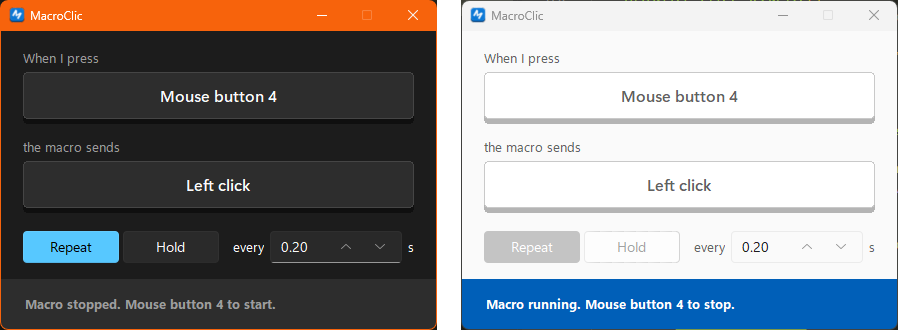
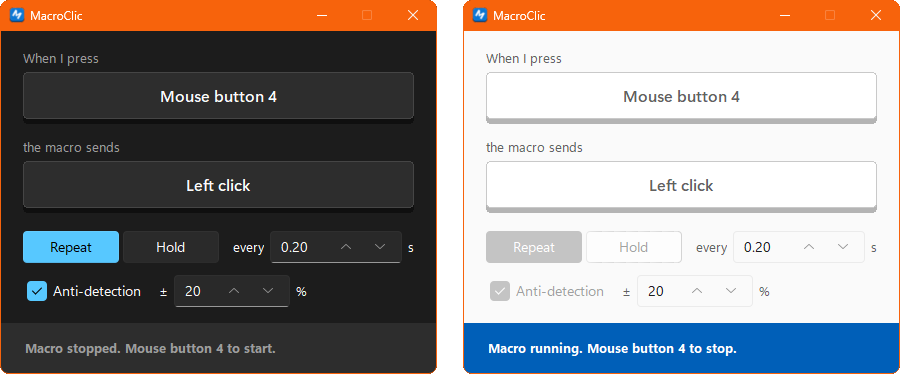
Add Anti-detection: a random spread on the repeat interval
A perfectly regular rhythm is easy for anti-cheat to spot. In Repeat
mode, ticking Anti-detection draws the wait after each press within
±N % (1 to 90, default 50) of the set gap. The spread applies to the
gap after the press, so it never goes below zero at short intervals.

The interval and percent share one parser (parse_number), config
loading and spinbox binding; the window saves on any cfg change.

diff --git a/macroclic.py b/macroclic.py
@@ -7,6 +7,7 @@ import atexit
 import json
 import math
 import os
+import random
 import sys
 import threading
 import time
@@ -22,6 +23,7 @@ import winput
 APP = "MacroClic"
 PRESS_TIME = 0.04          # how long a repeated press stays down (seconds)
 MIN_INTERVAL, MAX_INTERVAL = 0.05, 3600
+MAX_JITTER = 90            # percent; at 100 a wait could shrink to nothing
 CONFIG = Path(os.environ.get("APPDATA", ".")) / APP / "config.json"
 
 MOUSE_NAMES = {"left": "Left click", "right": "Right click",
@@ -93,18 +95,32 @@ def valid(inp, role):
             and inp["id"] == key_id(vk, ext) and isinstance(inp.get("scan"), int))
 
 
-def parse_interval(value):
-    """Interval in seconds clamped to bounds, or None if not a finite number."""
-    try:
-        value = float(value)
-    except (TypeError, ValueError):
+def parse_number(value, low, high):
+    """value clamped to low..high, or None if not a finite number. Typed
+    text may use a decimal comma; True / False aren't numbers here."""
+    if isinstance(value, bool):
         return None
-    return min(MAX_INTERVAL, max(MIN_INTERVAL, value)) if math.isfinite(value) else None
+    try:
+        value = float(str(value).replace(",", "."))
+    except ValueError:
+        return None
+    return min(high, max(low, value)) if math.isfinite(value) else None
+
+
+def parse_interval(value):
+    """Seconds between presses."""
+    return parse_number(value, MIN_INTERVAL, MAX_INTERVAL)
+
+
+def parse_jitter(value):
+    """Whole percent for Anti-detection."""
+    value = parse_number(value, 1, MAX_JITTER)
+    return None if value is None else round(value)
 
 
 # ─── Settings ─────────────────────────────────────────────────────────────────
 cfg = {"trigger": mouse_input("x1"), "action": mouse_input("left"),
-       "interval": 0.2, "hold": False}
+       "interval": 0.2, "hold": False, "random": False, "jitter": 50}
 
 
 def load_config():
@@ -117,11 +133,12 @@ def load_config():
     for k in ("trigger", "action"):
         if valid(saved.get(k), k):
             cfg[k] = renamed(saved[k])
-    interval = saved.get("interval")
-    if not isinstance(interval, bool) and (value := parse_interval(interval)):
-        cfg["interval"] = value
-    if isinstance(saved.get("hold"), bool):
-        cfg["hold"] = saved["hold"]
+    for k, parse in (("interval", parse_interval), ("jitter", parse_jitter)):
+        if (value := parse(saved.get(k))) is not None:
+            cfg[k] = value
+    for k in ("hold", "random"):
+        if isinstance(saved.get(k), bool):
+            cfg[k] = saved[k]
 
 
 def save_config():
@@ -195,6 +212,14 @@ def wait_while_active(seconds):
         time.sleep(0.01)
 
 
+def next_gap():
+    """Wait after a repeated press, drawn within ±jitter % when Anti-detection
+    is on: a perfectly regular rhythm is easy for anti-cheat to spot. The draw
+    spreads the gap, not the whole interval, so it never goes below zero."""
+    spread = cfg["jitter"] / 100 if cfg["random"] else 0
+    return (cfg["interval"] - PRESS_TIME) * random.uniform(1 - spread, 1 + spread)
+
+
 def worker():
     while not stopping:
         if not active:
@@ -207,7 +232,7 @@ def worker():
             wait_while_active(float("inf") if cfg["hold"] else PRESS_TIME)
         finally:
             send(inp, True)  # never leave it stuck down
-        wait_while_active(cfg["interval"] - PRESS_TIME)
+        wait_while_active(next_gap())
 
 
 _worker = threading.Thread(target=worker, daemon=True)
@@ -368,12 +393,30 @@ def build_ui(root):
     unit = ttk.Label(mode_row, text="s", font=small)
     unit.pack(side="left")
 
-    def on_interval(*_):
-        value = parse_interval(interval.get().replace(",", "."))
-        if value:  # half-typed value: keep the previous one
-            cfg["interval"] = value
+    def bind_number(var, key, parse):
+        def on_write(*_):
+            value = parse(var.get())
+            if value is not None:  # half-typed value: keep the previous one
+                cfg[key] = value
+        var.trace_add("write", on_write)
 
-    interval.trace_add("write", on_interval)
+    bind_number(interval, "interval", parse_interval)
+
+    random_row = ttk.Frame(body)
+    random_row.pack(anchor="w", pady=(12, 0))
+    rand = tk.BooleanVar(value=cfg["random"])
+    check = ttk.Checkbutton(random_row, text="Anti-detection", variable=rand,
+                            command=lambda: cfg.update(random=rand.get()))
+    check.pack(side="left")
+    plus = ttk.Label(random_row, text="±", font=small)
+    plus.pack(side="left", padx=(14, 0))
+    jitter = tk.StringVar(value=str(cfg["jitter"]))
+    jitter_spin = ttk.Spinbox(random_row, from_=5, to=MAX_JITTER, increment=5,
+                              width=4, textvariable=jitter)
+    jitter_spin.pack(side="left", padx=6)
+    percent = ttk.Label(random_row, text="%", font=small)
+    percent.pack(side="left")
+    bind_number(jitter, "jitter", parse_jitter)
     root.update_idletasks()  # keycaps as wide as the mode row
     for cap in keycaps.values():
         cap.stretch(mode_row.winfo_reqwidth())
@@ -384,16 +427,13 @@ def build_ui(root):
                     font=(text_family, 10, "bold"))
     band.pack(fill="x")
 
-    def settings():
-        return (cfg["trigger"]["id"], cfg["action"]["id"], cfg["interval"],
-                cfg["hold"])
-
-    shown, saved = None, settings()
+    # Inputs are replaced, never mutated, so a shallow copy spots any change.
+    shown, saved = None, dict(cfg)
 
     def refresh():
         nonlocal shown, saved
-        if settings() != saved:  # save right away: survives logoff or a kill
-            saved = settings()
+        if cfg != saved:  # save right away: survives logoff or a kill
+            saved = dict(cfg)
             save_config()
         root.after(100, refresh)
         for key, cap in keycaps.items():
@@ -417,16 +457,21 @@ def build_ui(root):
             text, bg, fg = (f"Macro stopped. {trig} to start.",
                             pal["face"], pal["dim"])
         off = active or cfg["hold"]
-        if (text, bg, fg, active, off) == shown:
+        jitter_off = off or not cfg["random"]
+        if (text, bg, fg, active, off, jitter_off) == shown:
             return  # Tk repaints on every configure, even with same values
-        shown = (text, bg, fg, active, off)
+        shown = (text, bg, fg, active, off, jitter_off)
         band.configure(text=text, bg=bg, fg=fg)
         # Switching mode mid-hold would never release the held input.
         for mode in modes:
             mode.state(["disabled"] if active else ["!disabled"])
-        spin.state(["disabled" if off else "!disabled"])
-        for label in (every, unit):  # sv-ttk doesn't grey disabled labels
-            label.configure(foreground=pal["dim"] if off else pal["fg"])
+        for disabled, widgets, labels in (
+                (off, (spin, check), (every, unit)),
+                (jitter_off, (jitter_spin,), (plus, percent))):
+            for widget in widgets:
+                widget.state(["disabled" if disabled else "!disabled"])
+            for label in labels:  # sv-ttk doesn't grey disabled labels
+                label.configure(foreground=pal["dim"] if disabled else pal["fg"])
 
     refresh()
     if theme == "dark":

diff --git a/test_macroclic.py b/test_macroclic.py
@@ -63,5 +63,22 @@ assert m.key_input(0x41, 0x10, False)["name"] == "A"
 assert m.parse_interval("0.5") == 0.5 and m.parse_interval("0") == m.MIN_INTERVAL
 assert m.parse_interval("inf") is None and m.parse_interval("nan") is None
 assert m.parse_interval("abc") is None and m.parse_interval(None) is None
+assert m.parse_interval(True) is None and m.parse_interval("0,5") == 0.5
+
+# Anti-detection percent.
+assert m.parse_jitter("50") == 50 and m.parse_jitter("12.6") == 13
+assert m.parse_jitter("0") == 1 and m.parse_jitter("500") == m.MAX_JITTER
+assert m.parse_jitter("inf") is None and m.parse_jitter("abc") is None
+
+# Anti-detection spreads the gap after each press evenly, never below zero.
+m.cfg.update(interval=1.0, random=False, jitter=50)
+gap = 1.0 - m.PRESS_TIME
+assert m.next_gap() == gap
+m.cfg["random"] = True
+waits = [m.next_gap() for _ in range(1000)]
+assert all(gap * 0.5 <= w <= gap * 1.5 for w in waits)
+assert min(waits) < gap * 0.6 and max(waits) > gap * 1.4
+m.cfg.update(interval=m.MIN_INTERVAL, jitter=m.MAX_JITTER)
+assert min(m.next_gap() for _ in range(1000)) > 0
 
 print("ok")

diff --git a/README.md b/README.md
@@ -16,7 +16,7 @@ Windows SmartScreen or your antivirus may warn about it, because the exe is unsi
 
 1. Click the first key, then press the key or mouse button that will start and stop the macro. Left click can't be used here, since every click would then be swallowed.
 2. Click the second key, then press what the macro should send: a key, or a left, right, middle or side mouse button.
-3. Choose **Repeat** and set how often to press, in seconds, or **Hold** to keep it held down.
+3. Choose **Repeat** and set how often to press, in seconds, or **Hold** to keep it held down. In Repeat, tick **Anti-detection** to vary each wait at random by up to the percentage you set, either way: 1 s at 50 % presses about every 0.5 to 1.5 s.
 4. Press your trigger anywhere to start, and press it again to stop.
 
 Press Esc while choosing a key to cancel. Settings are saved in `%APPDATA%\MacroClic\config.json`.
